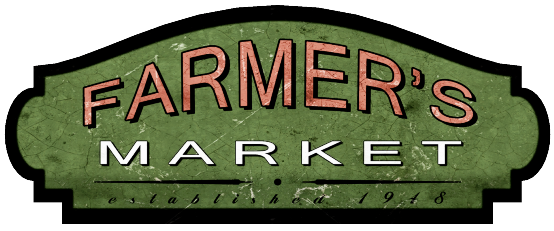
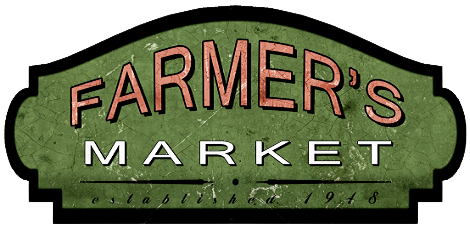
로그인 페이지 완성(마켓이미지 수정, 위치 수정)

diff --git a/css/signin.css b/css/signin.css
@@ -1,0 +1,78 @@
+.signin {
+  margin-top: 120px;
+  padding: 100px 0 150px;
+  background-image: url("../images/signin_bg.jpg");
+  background-repeat: no-repeat;
+  background-position: center;
+  background-attachment: fixed;
+  background-size: cover;
+}
+.signin h1 {
+  color: #fff;
+  font-size: 30px;
+  font-weight: 700;
+  text-align: center;
+  margin-bottom: 24px;
+}
+.signin__card {
+  width: 500px;
+  margin: 0 auto;
+  border-radius: 6px;
+  background-color: #f6f5f0;
+  box-shadow: 2px 2px 20px rgba(0, 0, 0, 0.5);
+  color: #555;
+}
+.signin__card h2 {
+  padding: 30px;
+  font-size: 18px;
+  text-align: center;
+  border-bottom: 1px solid #ddd;
+}
+.signin__card h2 strong {
+  font-weight: 700;
+  color: #006633;
+}
+.signin__card form {
+  padding: 30px 22px;
+}
+.signin__card form input {
+  width: 100%;
+  margin-bottom: 12px;
+  padding: 15px;
+  border: 1px solid #ddd;
+  border-radius: 4px;
+  outline: none;
+  box-sizing: border-box;
+  font-size: 14px;
+}
+.signin__card form [type="submit"] {
+  background-color: #006633;
+  border: none;
+  color: #fff;
+  font-size: 20px;
+  cursor: pointer;
+}
+.signin__card form p {
+  font-size: 12px;
+  color: #006633;
+  text-align: center;
+}
+.signin__card .actions {
+  display: flex;
+  border-top: 1px solid #ddd;
+}
+.signin__card .actions a {
+  flex-grow: 1;
+  flex-basis: 0;
+  text-align: center;
+  padding: 20px;
+  color: #555;
+  font-size: 14px;
+  border-right: 1px solid #ddd;
+}
+.signin__card .actions a:hover {
+  text-decoration: underline;
+}
+.signin__card .actions a:last-child {
+  border-right: none;
+}

diff --git a/signin/index.html b/signin/index.html
@@ -36,6 +36,7 @@
   <link rel="stylesheet" href="https://fonts.googleapis.com/icon?family=Material+Icons" />
 
   <link rel="stylesheet" href="../css/common.css" />
+  <link rel="stylesheet" href="../css/signin.css" />
 
   <script defer src="../js/common.js"></script>
 </head>
@@ -367,7 +368,26 @@
   </header>
 
   <section class="signin">
-
+    <h1>로그인</h1>
+    <div class="signin__card">
+      <h2>
+        <strong>Welcome!</strong> 위매드블럭 프로젝트에 오신 것을 환영합니다.
+      </h2>
+      <form>
+        <input type="text" placeholder="아이디를 입력하세요." />
+        <input type="password" placeholder="비밀번호를 입력하세요." />
+        <input type="submit" value="로그인" />
+        <p>
+          * 비밀번호를 타 사이트와 같이 사용할 경우 도용 위험이 있으니,<br />
+          정기적으로 비밀번호를 변경하세요!
+        </p>
+      </form>
+      <div class="actions">
+        <a href="javascript:void(0)">회원가입</a>
+        <a href="javascript:void(0)">아이디 찾기</a>
+        <a href="javascript:void(0)">비밀번호 찾기</a>
+      </div>
+    </div>
   </section>
 
   <!--FOOTER-->

diff --git a/css/main.css b/css/main.css
@@ -15,7 +15,7 @@
 .visual .title .btn {
   position: absolute;
   top: 239px;
-  left: 213px;
+  left: 173px;
 }
 .visual .cup1.image {
   position: absolute;
